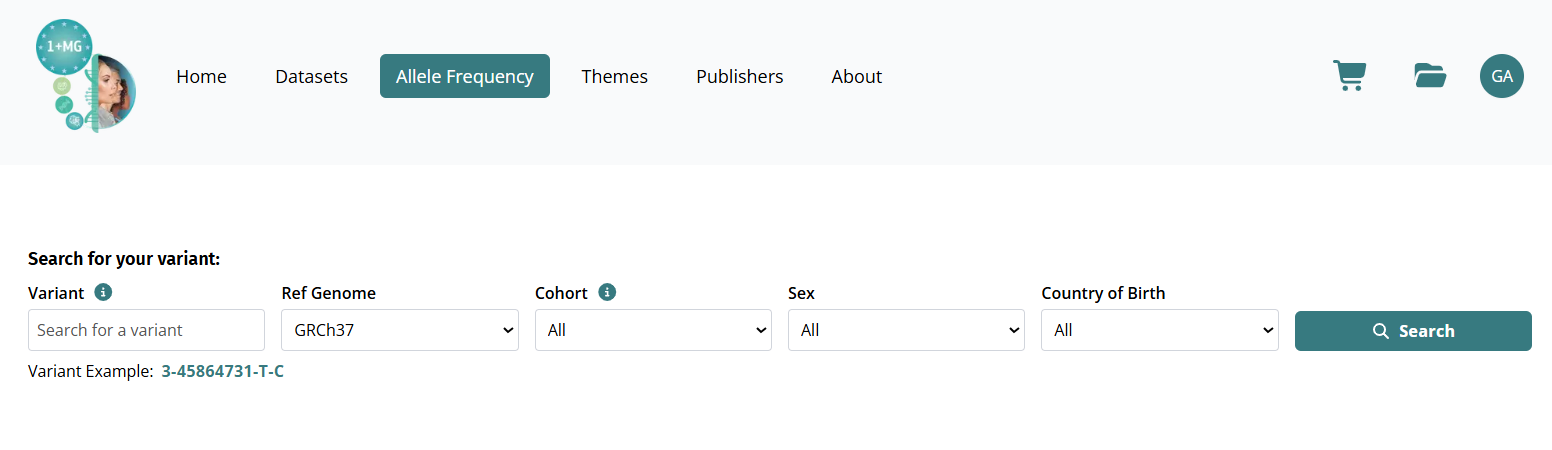
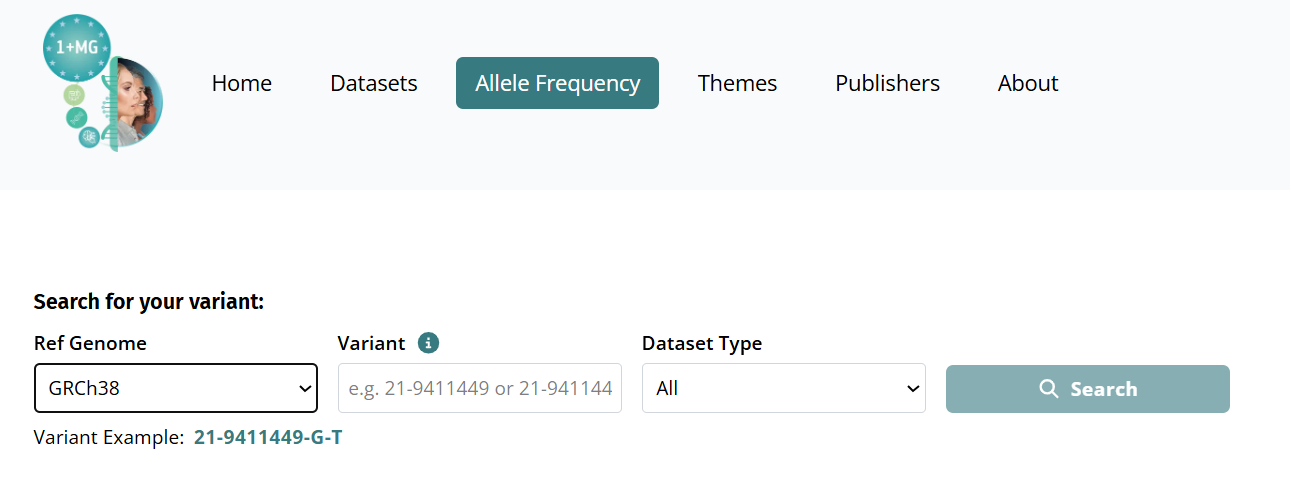
docs:ART-26736-Allele-freqeuncy search enhancements

diff --git a/documentation/docs/user-guide/explore-datasets/search-by-allele-frequency.md b/documentation/docs/user-guide/explore-datasets/search-by-allele-frequency.md
@@ -14,44 +14,59 @@ This search tool allows you to:
 - **Compare variant frequencies** across different populations and research cohorts
 - **Assess dataset suitability** by viewing detailed prevalence data to select the most appropriate datasets for your research
 
-:::tip Sign in for enhanced search
-
-[**Sign in**](/sign-in) to get comprehensive search results. While you can use this tool without an account, signing in allows you to search and view more details, such as `record counts` and other metadata, to help you find what you need.
-
-:::
-
 ## Search by allele frequency
 
 1. Select **Allele Frequency** from the main menu.
+
+2. Select a **Ref Genome**, for example, `GRCh37` or `GRCh38`.
 
 <figure>
 <img src="img/explore-datasets/allele-frequency.png" alt="Screenshot showing Allele Frequency option in main navigation menu" width="900" />
 <figcaption></figcaption>
 </figure>
 
-2. Enter your search criteria:
-   - **Variant:** The full form of the genomic variant, usually represented in the format `chr-position-ref-alt`. Example: `3-45864731-T-C`
-   - **Ref Genome:** Select the reference genome assembly to use for the search.
-   - **Sex (optional):** Filter results by biological sex (Male or Female).
-   - **Country of Birth (optional):** Filter results by country of birth using 2-letter ISO country codes.
+3. In **Variant**, enter any of the following formats:
+   - **Chromosome and position:** For example, `21-9411449`.
+   - **Chromosome, position, reference allele, and alternate allele:** For example, `21-9411449-G-T`.
 
-3. Select **Search** or press **Enter**. The search results display dataset information in table format.
+   Once you enter a variant, more fields appear to allow you to filter your search. If you enter an unsupported variant format, the application displays an error message and disables the search until you correct the value. 
+   
+4. Optionally select one or more filters: **sex**, **country of birth**, and **dataset type**.
+
+<figure>
+   <img src="img/explore-datasets/allele-frequency-optional-fields.png" alt="Screenshot showing Allele Frequency option in main navigation menu" width="900" />
+   <figcaption></figcaption>
+</figure>
+      
+5. Select **Search** or **Enter**. The search results display matching datasets in a table. Select the > expand control to view its population-level rows.
+<figure>
+   <img src="img/explore-datasets/allele-frequency-result.png" alt="Screenshot showing Allele Frequency search results" width="900" />
+   <figcaption></figcaption>
+</figure> 
+
+6. To view the population-level rows, select the expand icon (>) of the dataset.
+
+<figure>
+   <img src="img/explore-datasets/allele-frequency-result-details.png" alt="Screenshot showing allele frequency result details" width="900" />
+   <figcaption></figcaption>
+</figure>
 
 ## Understanding your results
 
-The search results display datasets containing your specified variant in table format. Here's an example of the search result using the allele frequency search tool:
+The search results display datasets containing your specified variant in a table with the following columns:
 
-<figure>
-<img src="img/explore-datasets/allele-frequency-result.png" alt="Screenshot showing Allele Frequency search results" width="900" />
-<figcaption></figcaption>
-</figure>
+- **Beacon:** The identifier and, when available, country of the Beacon source. The portal uses Beacon technology to retrieve information about whether genomic databases contain specific variants.
+- **Dataset:** The identifier of the matching dataset. Select the identifier to open the dataset details in a new window.
+- **Dataset Type:** The category of the dataset.
+- **Population:** The population identifier from the dataset, in Genome of Europe (GoE) format.
+- **Allele Count:** The number of times the variant appears in the dataset.
+- **Allele Number:** The total number of alleles analysed in the dataset for this position.
+- **Homozygous:** The number of individuals with two copies of the variant.
+- **Heterozygous:** The number of individuals with one copy of the variant.
+- **Hemizygous:** The number of individuals with one copy of the variant on a sex chromosome, such as the X or Y chromosome.
+- **Frequency:** How common the variant is in that population, shown as a decimal rounded to four places.
+- **Actions:** Add an internal dataset to your basket. For an external dataset, select **Access external dataset** when a link is available.
 
-- **Dataset**: Name and source of the dataset. These are Beacon identifiers—the portal uses Beacon technology to retrieve information about whether genomic databases contain specific variants.
-- **Population**: Population identifier from the dataset (e.g., "FR_M" for French males in GoE format).
-- **Allele Count**: Number of times the variant appears in the dataset.
-- **Allele Number**: Total number of alleles analysed in the dataset for this position.
-- **Homozygous**: Number of individuals with two copies of the variant.
-- **Heterozygous**: Number of individuals with one copy of the variant.
-- **Hemizygous**: Number of individuals with one copy of the variant on a sex chromosome (relevant for an X or Y chromosome).
-- **Frequency**: How common the variant is in that population (as a decimal).
-- **Actions**: Add the dataset to your basket to request access later.
+Results are grouped by Beacon and dataset. Select the expand control beside a dataset to view its population-level rows. When you select a sex or country-of-birth filter and results come from multiple Beacon sources, the page also displays a summary for the current filter.
+
+The application displays **Not available** when the discovery source does not provide a value. An external dataset may display **External link not available** when no access link is available.
